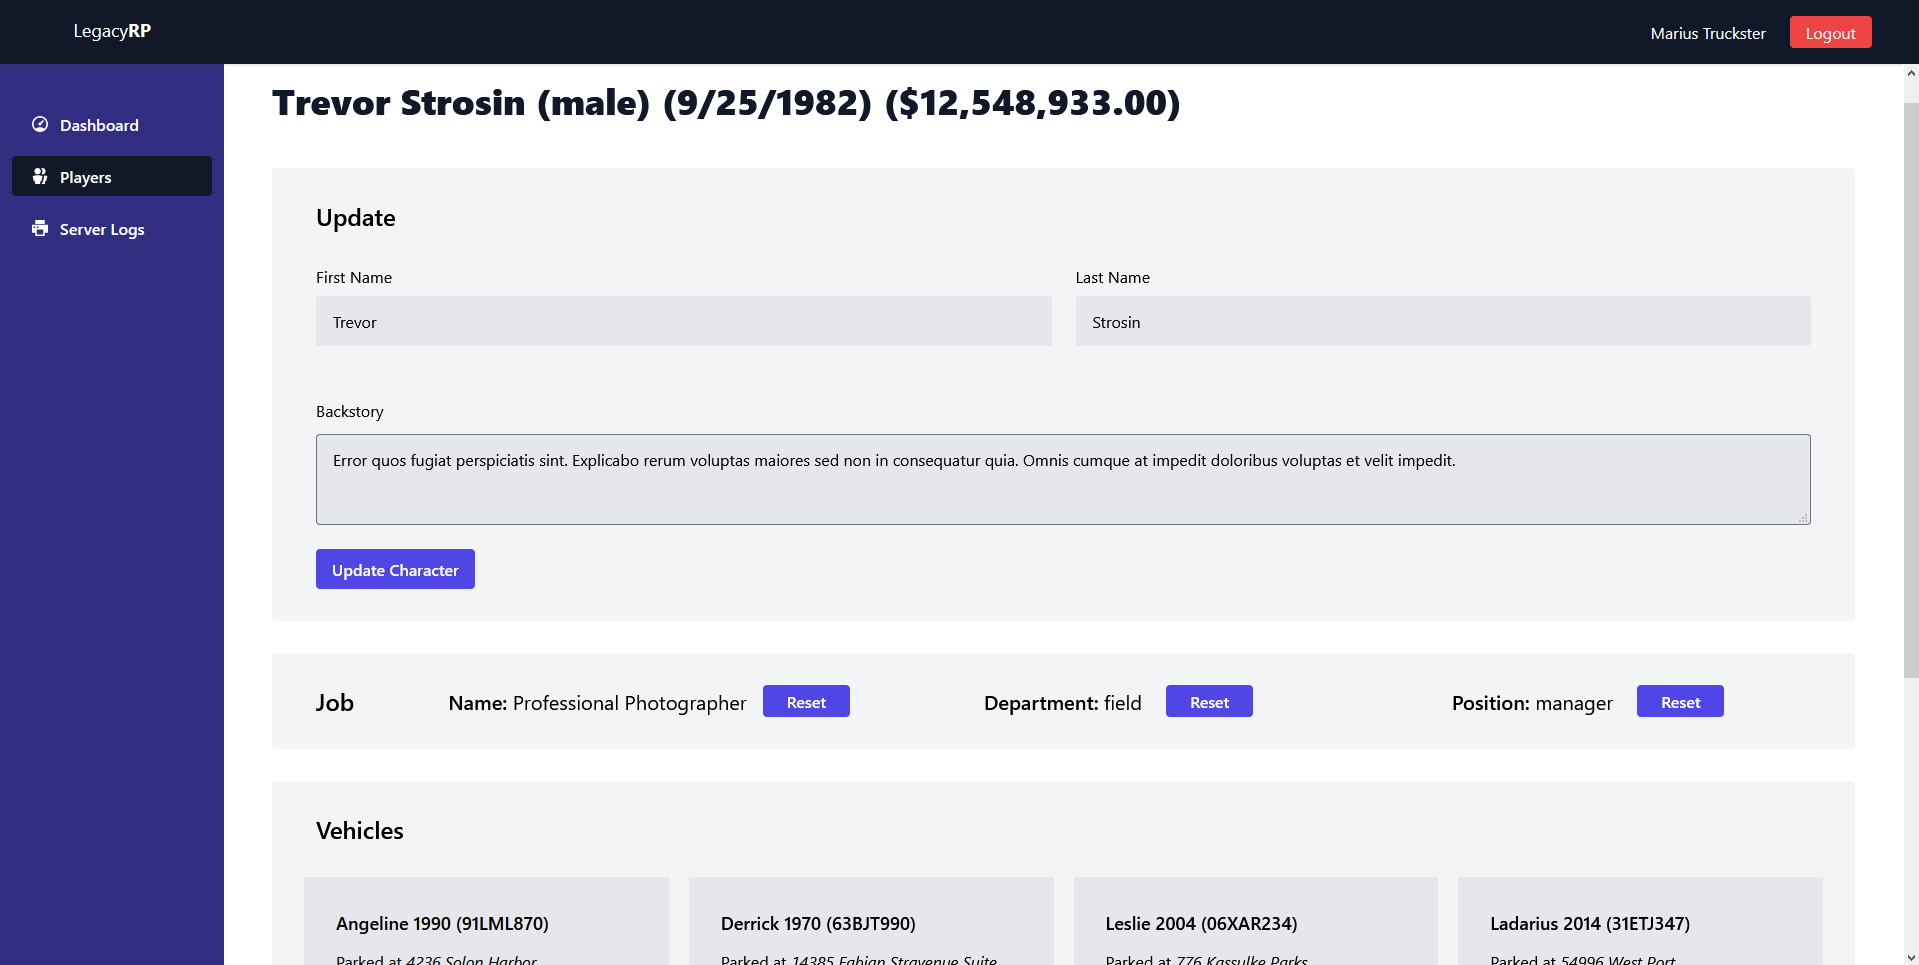
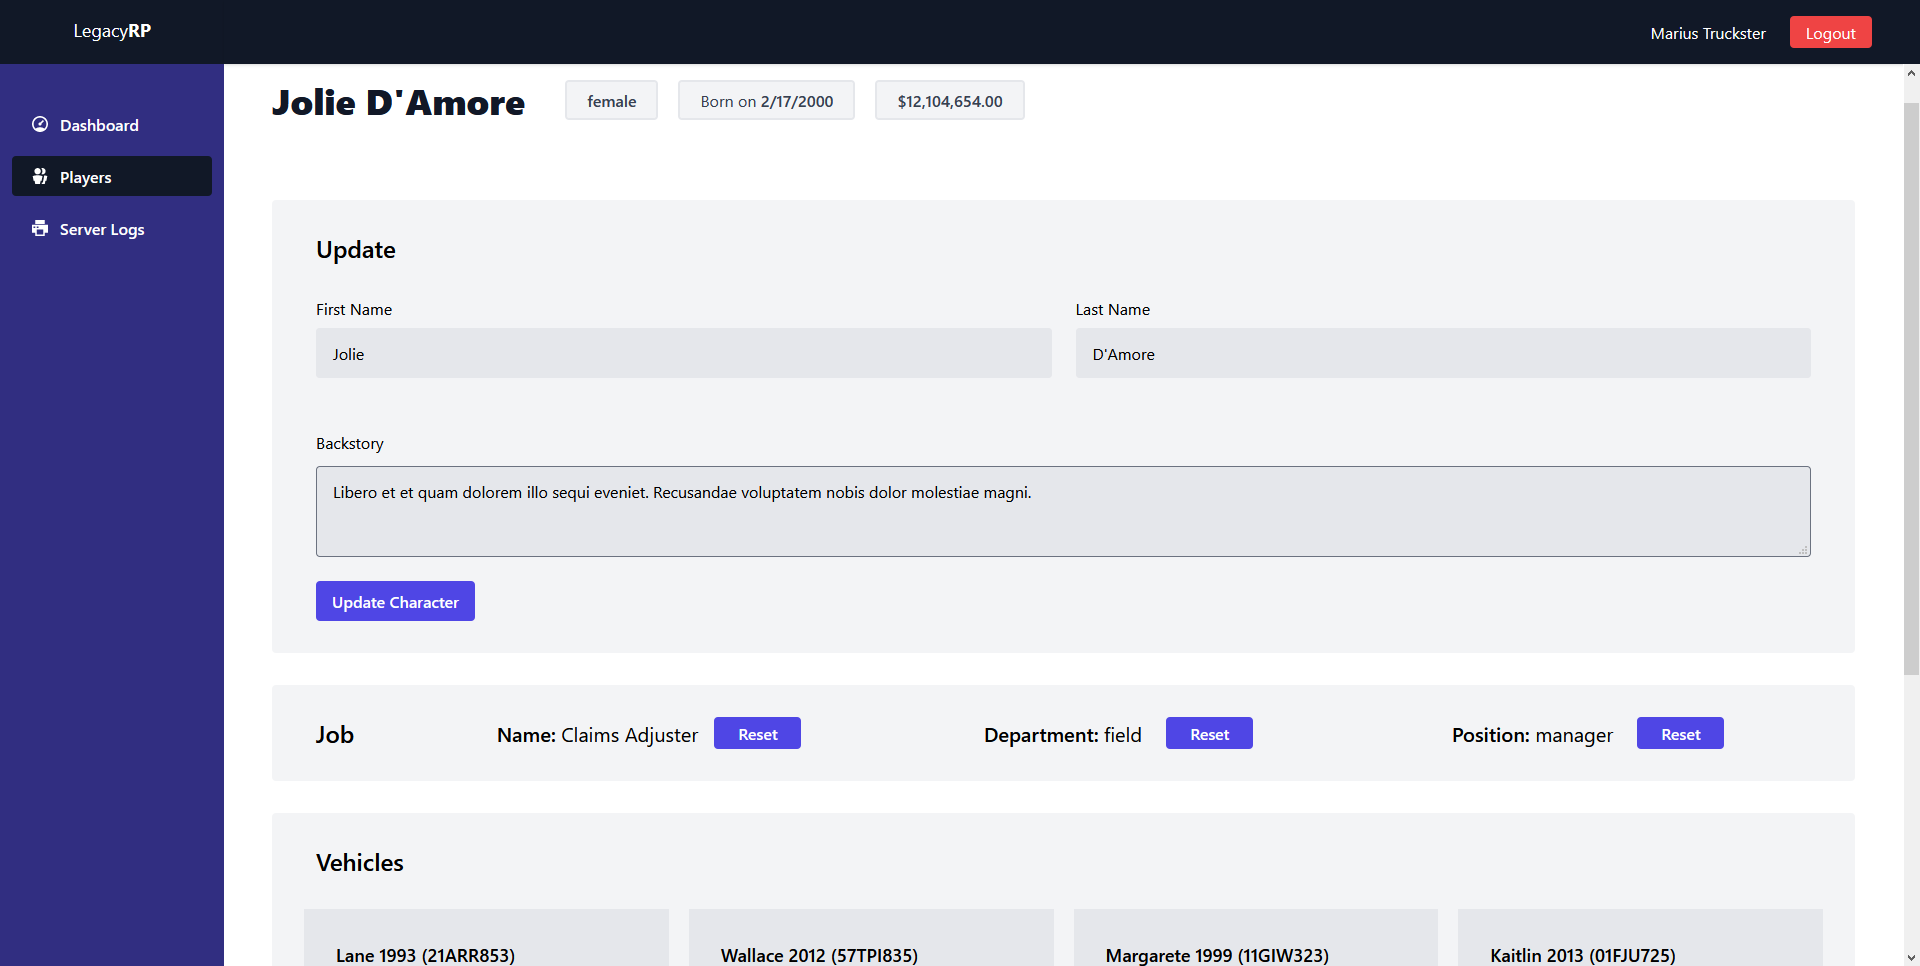
UI improvements

diff --git a/resources/js/Pages/Players/Characters/Edit.vue b/resources/js/Pages/Players/Characters/Edit.vue
@@ -1,9 +1,22 @@
 <template>
     <div>
-        <div class="prose max-w-5xl mb-12">
-            <h1>
-                {{ character.name }} ({{ character.gender }}) ({{ new Date(character.dateOfBirth).toLocaleDateString() }}) ({{ new Intl.NumberFormat('en-US', { style: 'currency', currency: 'USD' }).format(character.money) }})
-            </h1>
+        <div class="prose max-w-full mb-12">
+            <div class="flex items-start space-x-10">
+                <h1>
+                    {{ character.name }}
+                </h1>
+                <div class="flex items-center space-x-5">
+                    <div class="px-5 py-1 rounded bg-gray-100 border-2 border-gray-200">
+                        <span class="font-semibold">{{ character.gender }}</span>
+                    </div>
+                    <div class="px-5 py-1 rounded bg-gray-100 border-2 border-gray-200">
+                        Born on <span class="font-semibold">{{ new Date(character.dateOfBirth).toLocaleDateString() }}</span>
+                    </div>
+                    <div class="px-5 py-1 rounded bg-gray-100 border-2 border-gray-200">
+                        <span class="font-semibold">{{ new Intl.NumberFormat('en-US', { style: 'currency', currency: 'USD' }).format(character.money) }}</span>
+                    </div>
+                </div>
+            </div>
         </div>
 
         <!-- Editing -->

diff --git a/resources/js/Pages/Players/Show.vue b/resources/js/Pages/Players/Show.vue
@@ -1,13 +1,15 @@
 <template>
     <div>
         <div class="flex flex-grow items-start justify-between mb-12">
-            <div class="prose">
+            <div class="prose max-w-full">
                 <div class="flex items-start space-x-10">
                     <h1>
                         {{ player.playerName }}
                     </h1>
-                    <div class="px-5 py-1 rounded bg-gray-100 border-2 border-gray-200">
-                        <span class="font-semibold">{{ player.playTime }}</span> minutes played
+                    <div class="flex items-center space-x-5">
+                        <div class="px-5 py-1 rounded bg-gray-100 border-2 border-gray-200">
+                            <span class="font-semibold">{{ player.playTime }}</span> minutes played
+                        </div>
                     </div>
                 </div>
                 <p>
